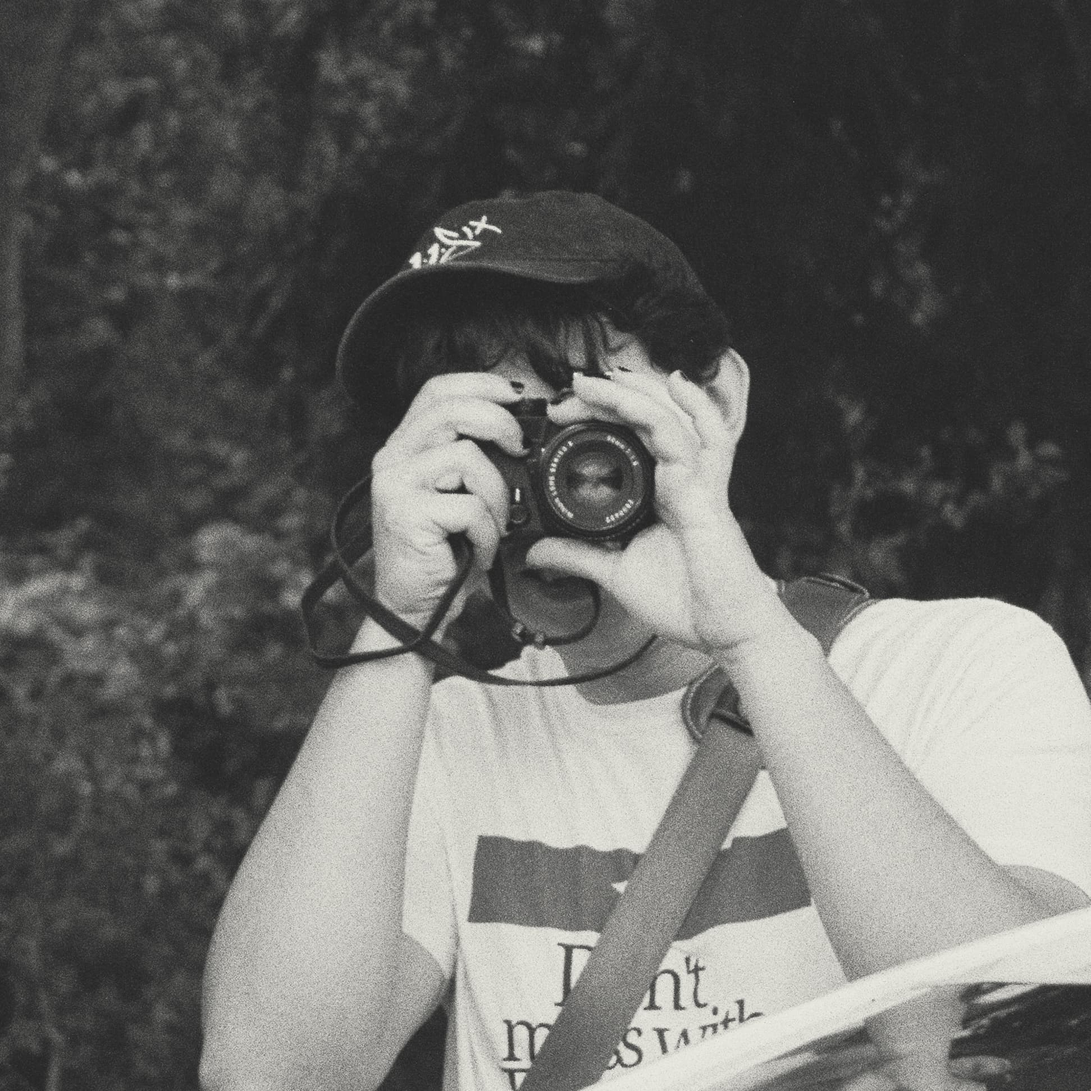
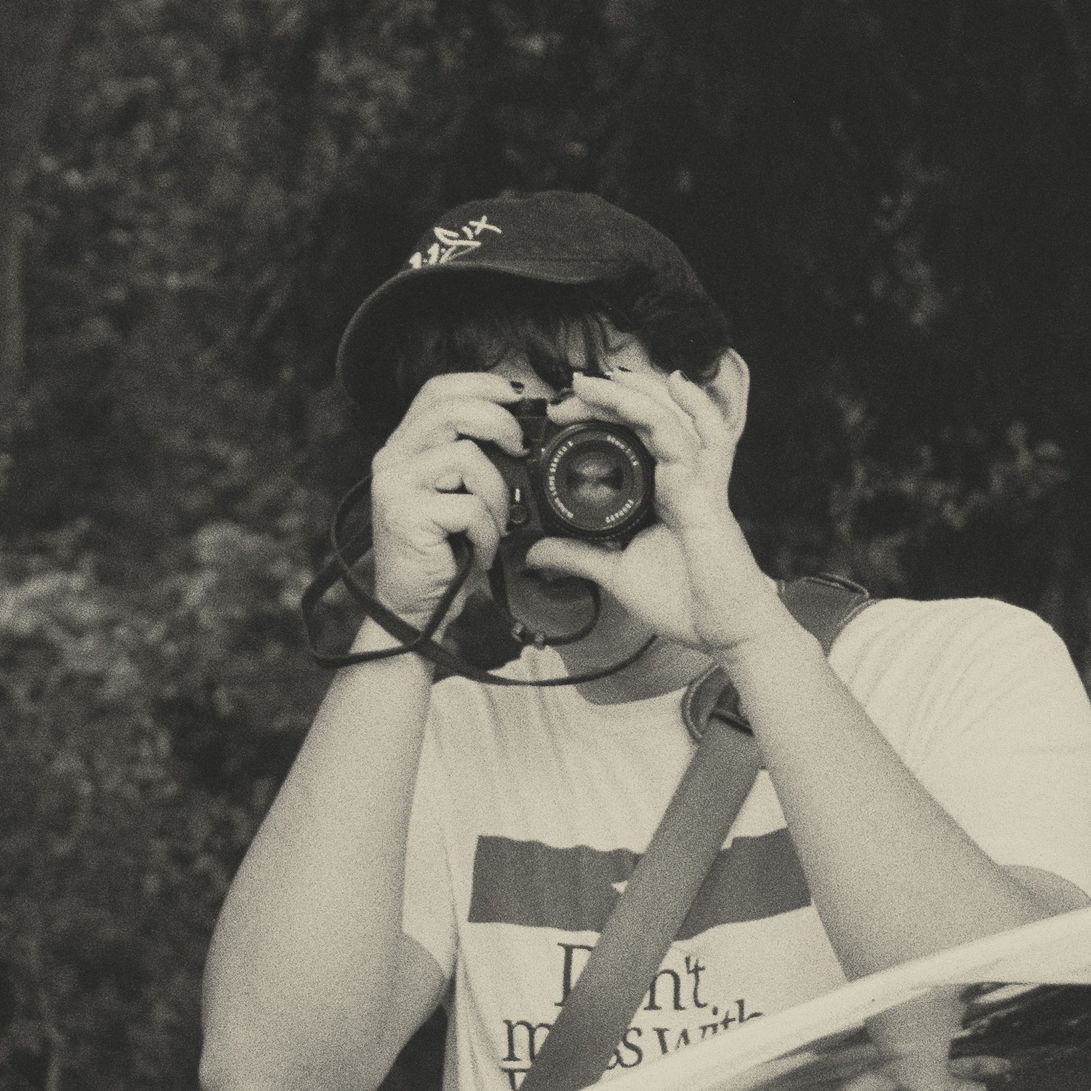
color and about changes. photo grid taller

Changed region(s): [[0.1853, 0.3088, 1.0, 1.0], [0.3706, 0.1853, 0.4632, 0.247], [0.0, 0.525, 0.0309, 0.5558]]

diff --git a/styles.css b/styles.css
@@ -1,11 +1,11 @@
 @import url(reset.css);
 
 :root {
-    --black: #1B1B1B;
-    --white: #EFEEE7;
+    --black: #434138;
+    --white: #DCD8C5;
     --grey: #656563;
     --border-color: var(--black);
-    --border-width: 2px;
+    --border-width: 1.5px;
     --border-offset: calc(var(--border-width)/2);
     --font-primary: 'Inter';
     --font-weight-normal: 380;
@@ -125,10 +125,10 @@ main {
     width: 10px;
     height: 10px;
     position: absolute;
-    background: #E2727F;
-    border-radius: 2px;
+    border: var(--border-width) solid var(--grey);
+    border-radius: 3px;
     left: 20px;
-    top: 26px;
+    top: 24px;
 }
 
 .grid, #hero {
@@ -297,5 +297,9 @@ footer ::selection {
 
     .me, .availability {
         display: none;
+    }
+
+    #photo {
+        grid-auto-rows: 18vh;
     }
 }

diff --git a/index.html b/index.html
@@ -19,7 +19,7 @@
     <main>
         <section id="hero">
             <div class="about">
-                <h1>darío <em>(DAH-REE-oh)</em> is a latine <a href="#">designer</a>, <a href="#">developer</a>, and <a href="#">photographer</a> based in austin. they have an interest in systems, design technology, and design-engineering collaboration.</h1>
+                <h1>darío is a <a href="#">designer</a>, <a href="#">developer</a>, and <a href="#">photographer</a> based in austin. they have an interest in systems, design technology, and design-engineering collaboration.</h1>
             </div>
             <div class="me"></div>
             <div class="availability">
